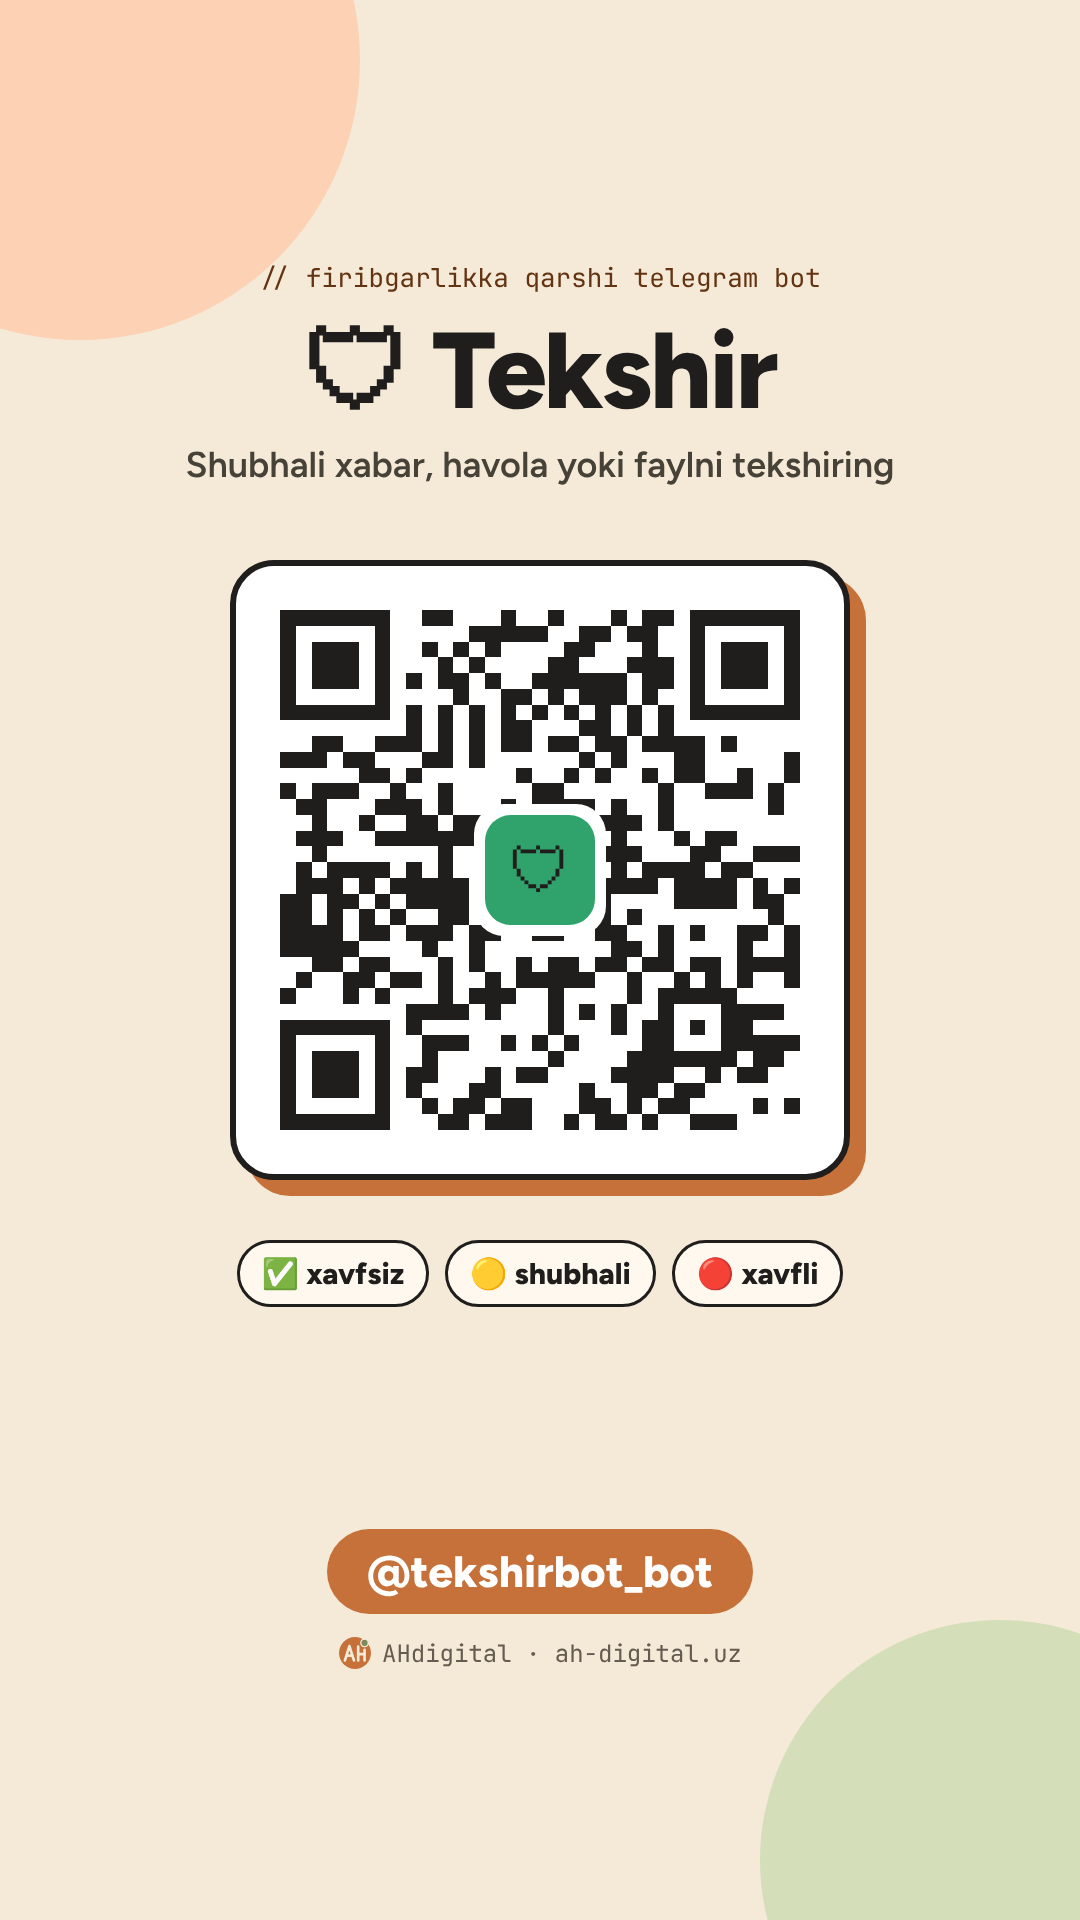
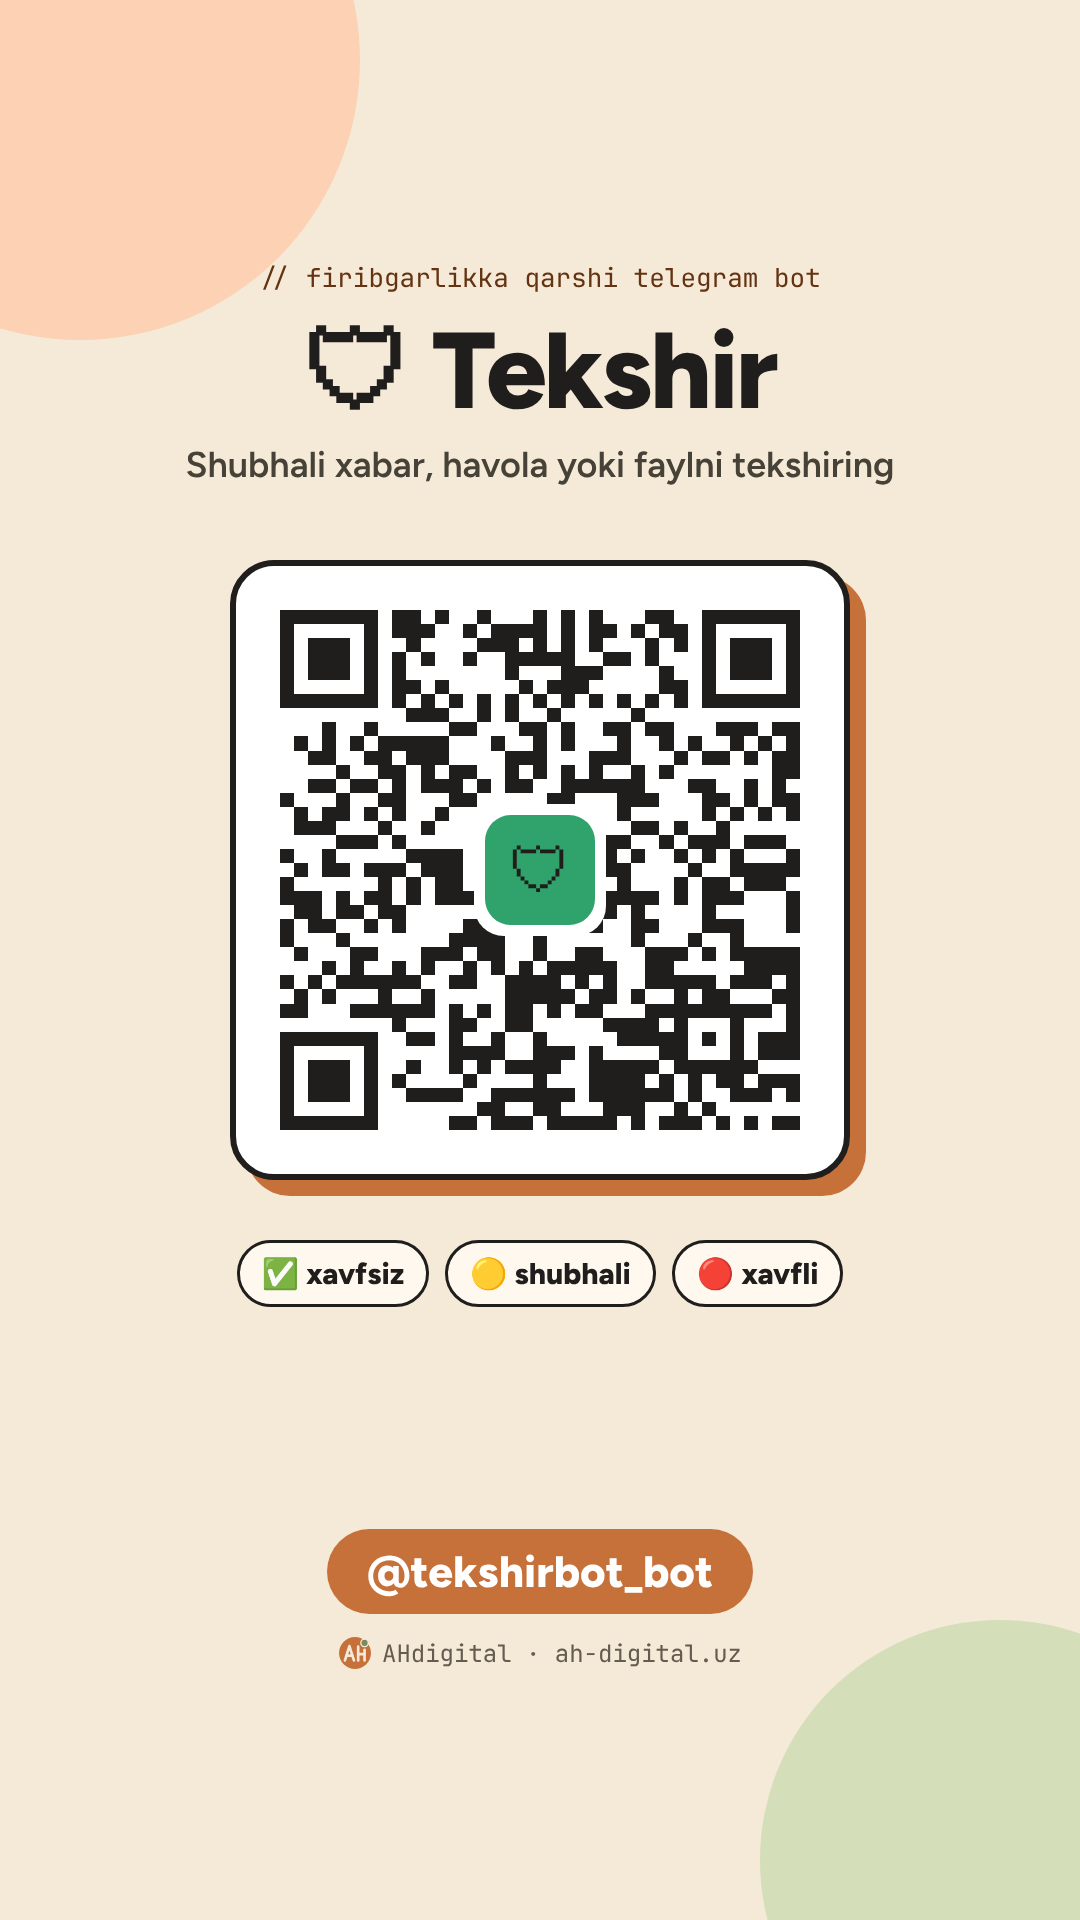
tekshir-bot /stats: kunlik o'sish, manbalar (?start=), faol soatlar, guruhlar; QR va portfolio havolalariga belgi
Claude-Session: https://claude.ai/code/session_01TK71iuci1thxzuMF5twHge

Changed region(s): [[0.2444, 0.3125, 0.7639, 0.5938]]

diff --git a/tekshir-bot/src/db.js b/tekshir-bot/src/db.js
@@ -111,6 +111,11 @@ function openDb(file = process.env.DB_PATH || DEFAULT_PATH) {
     getLang: id => q.getLang.get(id)?.lang || undefined,
     setLang: (id, lang) => q.upsertUser.run({ id, lang, now: Date.now() }),
     touchUser: id => q.upsertUser.run({ id, lang: null, now: Date.now() }),
+    // Faqat BIRINCHI manba yoziladi (keyin o'zgarmaydi)
+    noteSource(id, source) {
+      q.upsertUser.run({ id, lang: null, now: Date.now() });
+      db.prepare("UPDATE users SET source = ? WHERE telegram_id = ? AND source IS NULL").run(String(source).slice(0, 24), id);
+    },
 
     // ---- Tekshiruvni yozish (matnsiz!) ----
     // result — combineAll natijasi. Faqat daraja, ball, sabab kodlari va domenlar (hosts) olinadi.
@@ -200,6 +205,10 @@ function openDb(file = process.env.DB_PATH || DEFAULT_PATH) {
         topDanger: db.prepare("SELECT domain, danger, checks FROM domains WHERE danger > 0 ORDER BY danger DESC, checks DESC LIMIT 10").all(),
         topReasons: topReasons(db),
         reports: one("SELECT COUNT(*) n FROM reports").n,
+        daily: daily(db, now),
+        sources: db.prepare("SELECT COALESCE(source, 'nomaʼlum') source, COUNT(*) n FROM users GROUP BY 1 ORDER BY n DESC LIMIT 8").all(),
+        hours: topHours(db, now),
+        groupsList: db.prepare("SELECT chat_id, title, enabled, checks, warnings FROM groups ORDER BY checks DESC LIMIT 10").all(),
         reportsWeek: one("SELECT COUNT(*) n FROM reports WHERE created_at >= ?", week).n,
         groups: one("SELECT COUNT(*) n FROM groups").n,
         groupsActive: one("SELECT COUNT(*) n FROM groups WHERE enabled = 1").n,
@@ -221,12 +230,36 @@ function openDb(file = process.env.DB_PATH || DEFAULT_PATH) {
 
 // Eski bazaga yangi ustunlar qo'shish (bot yangilanganda ma'lumotlar yo'qolmasin)
 function migrate(db) {
+  // users.source — odam botga birinchi marta qayerdan kelgani (kanal, qr, guruh, demo...). Ism saqlanmaydi.
+  if (!db.prepare("PRAGMA table_info(users)").all().some(c => c.name === "source")) db.exec("ALTER TABLE users ADD COLUMN source TEXT");
   const cols = db.prepare("PRAGMA table_info(groups)").all().map(c => c.name);
   const add = (name, def) => { if (!cols.includes(name)) db.exec(`ALTER TABLE groups ADD COLUMN ${name} ${def}`); };
   add("mode", "TEXT NOT NULL DEFAULT 'suspicious'");
   add("delete_danger", "INTEGER NOT NULL DEFAULT 0");
   add("checks", "INTEGER NOT NULL DEFAULT 0");
   add("warnings", "INTEGER NOT NULL DEFAULT 0");
+}
+
+// Toshkent vaqti (UTC+5): kunlar va soatlar shu bo'yicha hisoblanadi
+const TZ = 5 * 60 * 60 * 1000;
+const dayKey = ts => new Date(ts + TZ).toISOString().slice(0, 10);
+
+// Oxirgi 7 kun: har kuni nechta yangi foydalanuvchi va nechta tekshiruv
+function daily(db, now) {
+  const from = now - 7 * DAY;
+  const days = [];
+  for (let i = 6; i >= 0; i--) days.push({ day: dayKey(now - i * DAY), users: 0, checks: 0 });
+  const idx = Object.fromEntries(days.map((d, i) => [d.day, i]));
+  for (const r of db.prepare("SELECT first_seen t FROM users WHERE first_seen >= ?").all(from)) { const i = idx[dayKey(r.t)]; if (i != null) days[i].users++; }
+  for (const r of db.prepare("SELECT created_at t FROM checks WHERE created_at >= ?").all(from)) { const i = idx[dayKey(r.t)]; if (i != null) days[i].checks++; }
+  return days;
+}
+
+// Eng faol soatlar (oxirgi 30 kun, Toshkent vaqti)
+function topHours(db, now) {
+  const h = new Array(24).fill(0);
+  for (const r of db.prepare("SELECT created_at t FROM checks WHERE created_at >= ?").all(now - 30 * DAY)) h[new Date(r.t + TZ).getUTCHours()]++;
+  return h.map((n, hour) => ({ hour, n })).filter(x => x.n).sort((a, b) => b.n - a.n).slice(0, 3);
 }
 
 function startOfDay(ts) { const d = new Date(ts); d.setHours(0, 0, 0, 0); return d.getTime(); }

diff --git a/tekshir-bot/src/bot.js b/tekshir-bot/src/bot.js
@@ -70,6 +70,9 @@ function createBot(token, options = {}, deps = {}) {
   // /start — til tanlanmagan bo'lsa, avval tilni so'raymiz
   bot.command("start", async ctx => {
     if (isGroup(ctx)) return ctx.reply(t(groupOf(ctx).lang, "group_welcome"), { parse_mode: "HTML" });
+    // Qayerdan kelgani: t.me/bot?start=kanal → "kanal". Faqat harf/raqam, ism saqlanmaydi
+    const src = String(ctx.match || "").toLowerCase().replace(/[^a-z0-9_]/g, "").slice(0, 24) || "start";
+    try { db.noteSource(ctx.from.id, src); } catch (e) { console.error("Manba:", e.message); }
     const lang = getLang(ctx.from.id);
     if (!lang) return ctx.reply(t("uz-latn", "choose_lang"), { reply_markup: langKeyboard() });
     await ctx.reply(t(lang, "welcome"), { parse_mode: "HTML" });
@@ -99,7 +102,10 @@ function createBot(token, options = {}, deps = {}) {
     // Oxirida — baza qayerda turibdi (serverda /var/data bo'lmasa, qayta ishga tushganda o'chadi)
     const where = db.file === ":memory:" ? "xotirada (vaqtinchalik)" : db.file;
     const safe = db.file.startsWith("/var/data") ? "✅ doimiy disk" : "⚠ vaqtinchalik — server qayta ishga tushsa o'chadi";
-    await ctx.reply(formatStats(db.stats()) + `\n\n📂 Baza: <code>${where}</code>\n${safe}`, { parse_mode: "HTML" });
+    const st = db.stats();
+    // Guruhlardagi a'zolar soni — Telegram'dan so'raymiz (ism emas, faqat son)
+    await Promise.all(st.groupsList.map(async g => { try { g.members = await ctx.api.getChatMemberCount(g.chat_id); } catch { /* bot chiqarilgan bo'lsa */ } }));
+    await ctx.reply(formatStats(st) + `\n\n📂 Baza: <code>${where}</code>\n${safe}`, { parse_mode: "HTML" });
   });
 
   // /export — oxirgi 30 kunlik tekshiruvlar CSV faylda (Excel'da ochiladi). Foydalanuvchi ID'si va matn YO'Q
@@ -357,7 +363,7 @@ function createBot(token, options = {}, deps = {}) {
     .text(t(lang, "demo_btn_sms"), "demo:sms").row()
     .text(t(lang, "demo_btn_link"), "demo:link").row()
     .text(t(lang, "demo_btn_file"), "demo:file");
-  bot.command("demo", ctx => { const lang = langOf(ctx); return ctx.reply(t(lang, "demo_intro"), { parse_mode: "HTML", reply_markup: demoMenu(lang) }); });
+  bot.command("demo", ctx => { if (ctx.chat.type === "private") { try { db.noteSource(ctx.from.id, "demo"); } catch { /* statistika — muhim emas */ } } const lang = langOf(ctx); return ctx.reply(t(lang, "demo_intro"), { parse_mode: "HTML", reply_markup: demoMenu(lang) }); });
   bot.callbackQuery("demo:menu", async ctx => {
     const lang = cbLang(ctx) || DEFAULT_LANG;
     await ctx.answerCallbackQuery();
@@ -413,6 +419,7 @@ function createBot(token, options = {}, deps = {}) {
     let lang = getLang(ctx.from.id);
     // AUTO_LANG=1 (bepul serverda): baza o'chib ketgan bo'lsa ham tilni qayta so'ramaymiz —
     // Telegram ilovasining tilidan taxmin qilamiz (rus/ukrain/qozoq → rus, qolgani → o'zbek). /til bilan o'zgartirsa bo'ladi.
+    if (!lang) { try { db.noteSource(ctx.from.id, "xabar"); } catch { /* statistika — muhim emas */ } }
     if (!lang && process.env.AUTO_LANG === "1") {
       lang = ["ru", "uk", "be", "kk"].includes(ctx.from.language_code) ? "ru" : "uz-latn";
       db.setLang(ctx.from.id, lang);

diff --git a/tekshir-bot/src/admin.js b/tekshir-bot/src/admin.js
@@ -6,6 +6,8 @@ const adminIds = () => (process.env.ADMIN_IDS || "").split(",").map(s => s.trim(
 const isAdmin = id => adminIds().includes(Number(id));
 
 const LANG_NAMES = { "uz-latn": "O'zbek (lotin)", "uz-cyrl": "O'zbek (kirill)", ru: "Rus" };
+// /start havolasidagi belgi → odam tushunadigan nom. Masalan: t.me/tekshirbot_bot?start=kanal
+const SOURCE_NAMES = { kanal: "📢 Telegram kanal", qr: "🔳 QR kod", insta: "📸 Instagram", youtube: "▶ YouTube", sayt: "🌐 Sayt", group: "👥 Guruhdagi tugma", demo: "🎓 /demo", ulash: "👨👩👧 Do'sti ulashgan havola", start: "▶ /start (belgisiz)", xabar: "💬 To'g'ridan-to'g'ri xabar", "nomaʼlum": "❔ Noma'lum (eski foydalanuvchi)" };
 const pct = (n, total) => total ? Math.round(n * 100 / total) + "%" : "0%";
 const esc = s => String(s).replace(/&/g, "&amp;").replace(/</g, "&lt;").replace(/>/g, "&gt;");
 
@@ -34,6 +36,14 @@ function formatStats(s) {
       `Raqamlar: 📞 ${k.phone || 0} · 💳 ${k.card || 0} · 🌐 ${k.domain || 0}`);
   }
   if (s.groups !== undefined) lines.push("", "👥 <b>Guruhlar</b>", `Jami: ${s.groups} · faol: ${s.groupsActive} · ogohlantirishlar: ${s.groupWarnings}`);
+  if (s.daily) {
+    const max = Math.max(1, ...s.daily.map(d => d.users));
+    lines.push("", "📈 <b>Oxirgi 7 kun</b> (yangi foydalanuvchi · tekshiruv)",
+      ...s.daily.map(d => `<code>${d.day.slice(8, 10)}.${d.day.slice(5, 7)}</code> ${"▇".repeat(Math.round(d.users / max * 8)) || "·"} +${d.users} · ${d.checks}`));
+  }
+  if (s.sources && s.sources.length) lines.push("", "🧭 <b>Qayerdan kelishgan</b>", ...s.sources.map(x => `${SOURCE_NAMES[x.source] || esc(x.source)}: ${x.n}`));
+  if (s.hours && s.hours.length) lines.push("", "🕐 <b>Eng faol soatlar</b> (Toshkent, 30 kun)", ...s.hours.map(x => `${String(x.hour).padStart(2, "0")}:00–${String((x.hour + 1) % 24).padStart(2, "0")}:00 — ${x.n} ta`));
+  if (s.groupsList && s.groupsList.length) lines.push("", "👥 <b>Bot ishlayotgan guruhlar</b>", ...s.groupsList.map(g => `${g.enabled ? "🟢" : "⏸"} ${esc(g.title || "nomsiz")}${g.members ? ` · ${g.members} a'zo` : ""} · ${g.checks} tekshiruv · ${g.warnings} ogohlantirish`));
   if (s.langs.length) lines.push("", "🌐 <b>Tillar</b>", ...s.langs.map(l => `${LANG_NAMES[l.lang] || l.lang}: ${l.n}`));
   if (s.topDanger.length) lines.push("", "🚨 <b>Eng ko'p xavfli chiqqan domenlar</b>", ...s.topDanger.map((d, i) => `${i + 1}. <code>${esc(d.domain)}</code> — ${d.danger} marta`));
   if (s.topReasons.length) lines.push("", "🧩 <b>Eng ko'p sabablar</b>", ...s.topReasons.map(r => `<code>${esc(r.code)}</code> — ${r.n}`));

diff --git a/tekshir-bot/tests/db.test.js b/tekshir-bot/tests/db.test.js
@@ -114,3 +114,25 @@ test("kesh bazada saqlanadi: xotira tozalansa ham bazadan topiladi", () => {
   assert.strictEqual(db.cachePurge(), 1);
   cache.attach(null);
 });
+
+test("/stats: kunlik o'sish, manbalar, faol soatlar va guruhlar (ismsiz)", async () => {
+  process.env.ADMIN_IDS = "111";
+  const db = openDb(":memory:");
+  const { bot, calls } = fakeBot(db);
+  const start = (id, payload) => bot.handleUpdate({ update_id: uid++, message: { message_id: uid, date: 0, chat: { id, type: "private" }, from: { id, is_bot: false, first_name: "Maxfiy Ism", username: "maxfiy_user" }, text: "/start" + (payload ? " " + payload : ""), entities: [{ type: "bot_command", offset: 0, length: 6 }] } });
+  await start(1, "kanal"); await start(2, "kanal"); await start(3, "qr"); await start(4);
+  await start(1, "qr");                                       // ikkinchi marta — manba o'zgarmaydi
+  db.addGroup(-5, "Mahalla <guruhi>");
+  db.logCheck({ userId: 1, chatType: "private", result: { level: "safe", score: 0, hasUrl: false, hasFile: false, reasons: [] }, hasText: true });
+  await bot.handleUpdate(msg(111, "/stats"));
+  const text = calls.filter(c => c.method === "sendMessage").pop().payload.text;
+  assert.match(text, /Telegram kanal: 2/);
+  assert.match(text, /QR kod: 1/);
+  assert.match(text, /\/start \(belgisiz\): 1/);
+  assert.match(text, /Oxirgi 7 kun/);
+  assert.match(text, /\+4 · 1/);                              // bugun 4 ta yangi, 1 ta tekshiruv
+  assert.match(text, /Eng faol soatlar/);
+  assert.match(text, /Mahalla &lt;guruhi&gt;/);               // guruh nomi xavfsiz ko'rsatiladi
+  assert.ok(!/Maxfiy Ism|maxfiy_user/.test(text), "ism va username hech qayerda yo'q");
+  assert.ok(!JSON.stringify(db.raw.prepare("SELECT * FROM users").all()).includes("maxfiy"), "bazada ham yo'q");
+});

diff --git a/tekshir-bot/src/reply.js b/tekshir-bot/src/reply.js
@@ -44,7 +44,7 @@ function buildReply(lang, result, botUsername, opts = {}) {
   text += `\n\n${t(lang, "what_to_do")}\n${advice(lang, result).join("\n")}`;
 
   // Tugmalar: shikoyat va oilaga ulashish (Telegram'ning "ulashish" oynasi)
-  const share = `https://t.me/share/url?url=${encodeURIComponent("https://t.me/" + botUsername)}&text=${encodeURIComponent(t(lang, "share_text"))}`;
+  const share = `https://t.me/share/url?url=${encodeURIComponent("https://t.me/" + botUsername + "?start=ulash")}&text=${encodeURIComponent(t(lang, "share_text"))}`;
   const kb = new InlineKeyboard();
   if (opts.reportId) kb.text(t(lang, "btn_report"), `rep:${opts.reportId}`);
   kb.url(t(lang, "btn_share"), share);

diff --git a/works.js b/works.js
@@ -37,7 +37,7 @@ window.WORKS = [
       "Claude"
     ],
     "image": "images/ishlar/tekshir-bot.webp",
-    "link": "https://t.me/tekshirbot_bot",
+    "link": "https://t.me/tekshirbot_bot?start=sayt",
     "linkText": "Botni ochish"
   },
   {
